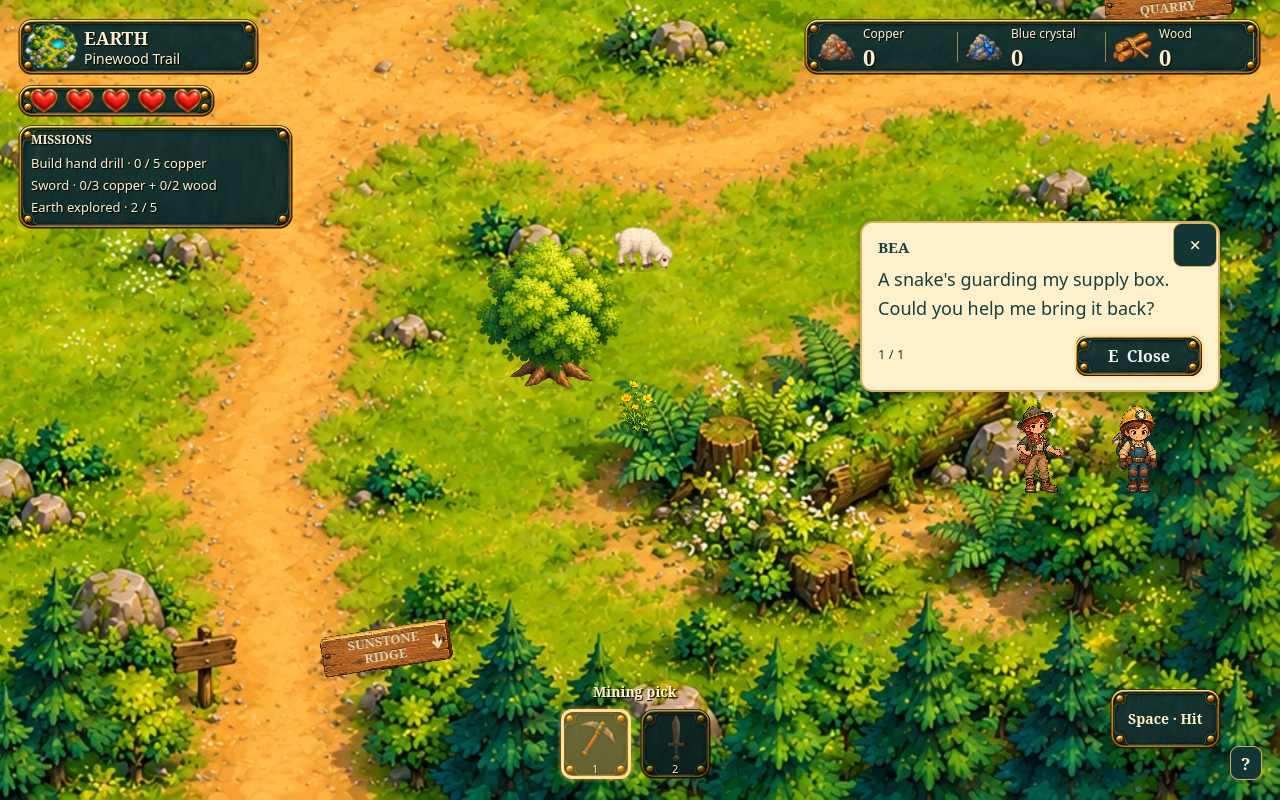
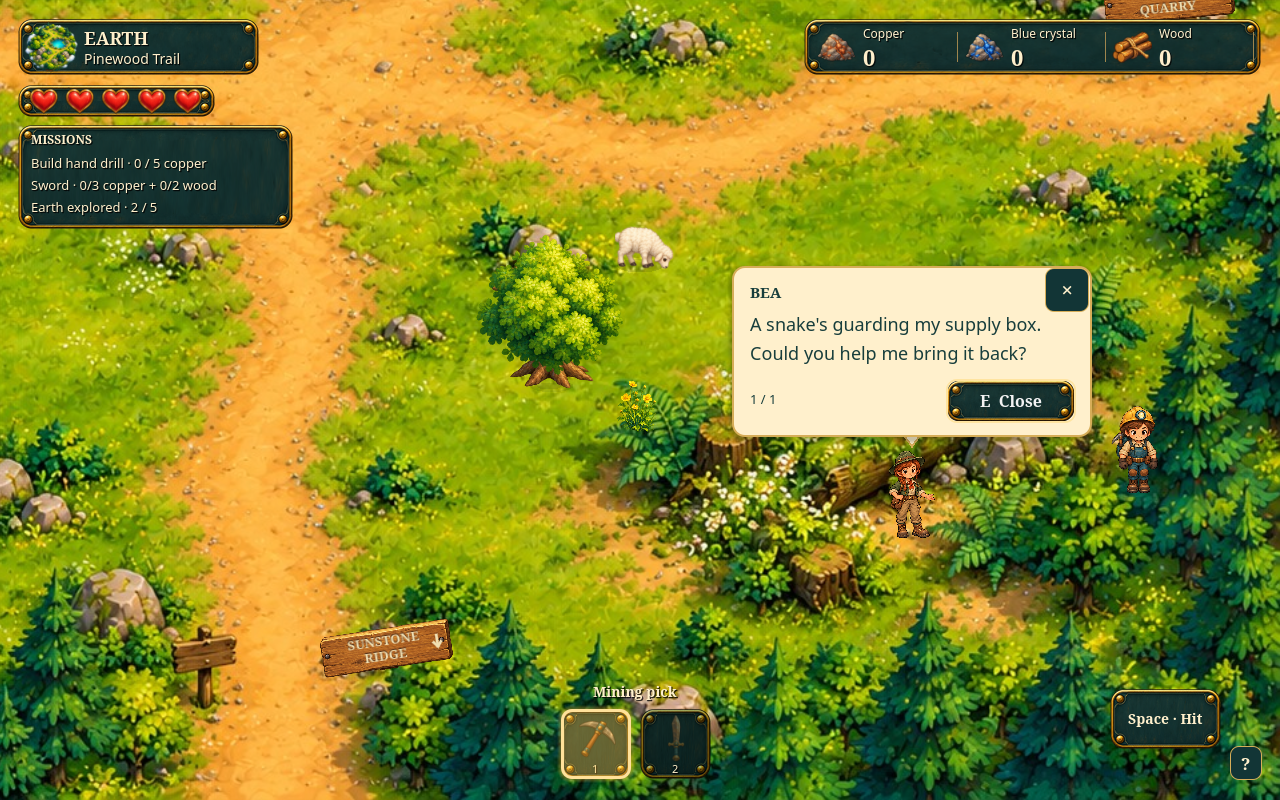
Move Bea to the requested fallen-tree clearing

Changed region(s): [[0.5625, 0.25, 0.9688, 0.6875], [0.375, 0.2812, 0.5, 0.4062]]

diff --git a/docs/BEA_MISSION.md b/docs/BEA_MISSION.md
@@ -12,16 +12,16 @@ Bea is a warm, practical woodland ranger. Auburn hair in a braid, a green soft
 ranger hat with a leaf pin, a green jacket, rust scarf, tan trousers and a brown
 supply satchel distinguish her from Scout, Rowan and Otis.
 
-Place her on the clear trail to the right of Pinewood Trail's **southeast fallen
-tree**, matching the user's fallen-tree reference. Proposed world foot position:
-`(1760, 1093.33)`, corresponding to art position `(1320, 820)`. Keep the trail and
-both approaches around the log usable. This is a proposal until screenshot
-approval; any final collision, ore, foliage and encounter clearance is part of
-B04.
+Place her on the clear ground **below Pinewood Trail's southeast fallen tree,
+beside the small stump**, in the area the user circled in red. Requested world
+foot position: `(1632, 1138)`, corresponding to art position `(1224, 853.5)`.
+This moves her down and left from the initial position to the right of the log.
+Keep both approaches around the log usable; final ore, foliage and encounter
+clearance is part of B04.
 
 Fit the character's visible alpha bounds to Scout's **87.45 world-unit** idle
-height, excluding transparent padding. Put Scout beside her on the same ground
-line at the same camera zoom for the scale check. Her compact head/body
+height, excluding transparent padding. Keep Scout visible at the same camera
+zoom for the scale check. Her compact head/body
 proportions follow Scout's miner artwork. Store the character source and review
 captures in [the concept folder](concepts/bea-v1/README.md).
 
@@ -43,7 +43,7 @@ by a persistent world pickup and a return conversation.
   its mutable home after floor fitting, or the total number of enemies defeated.
   This adds no extra snake to the district.
 - **Supply box:** add a small distinct tied wooden box near the encounter,
-  provisionally around world `(1440, 1000)`, southwest of Bea and beside the
+  provisionally around world `(1440, 1000)`, northwest of Bea and beside the
   fallen-tree clearing. Verify the final spot against the painted ground,
   randomized ore and existing plants before implementation. The box is a unique
   mission item; it is not one of the wood pickups needed for crafting.

diff --git a/docs/concepts/bea-v1/README.md b/docs/concepts/bea-v1/README.md
@@ -14,8 +14,10 @@ in-game size.
 The placement captures use the current main-game Pinewood scenery and HUD, with
 a proposed Bea sprite and shared character bubble added for the screenshot.
 Both characters use the normal camera zoom and an equal 87.45-world-unit visible
-height measured from their alpha bounds. Bea stands to the right of the
-southeast fallen tree; Scout stands beside her on the same ground line.
+height measured from their alpha bounds. Bea now stands on the clear ground
+below the southeast fallen tree, beside the small stump, where the user circled
+in red. Her world foot position is `(1632, 1138)`. Scout stays to the right as a
+size reference; the camera and character scale stay the same.
 Fog is hidden in this screenshot arrangement to show the landmark clearly.
 
 ![Proposed placement beside the fallen tree](bea-pinewood-placement.png)
